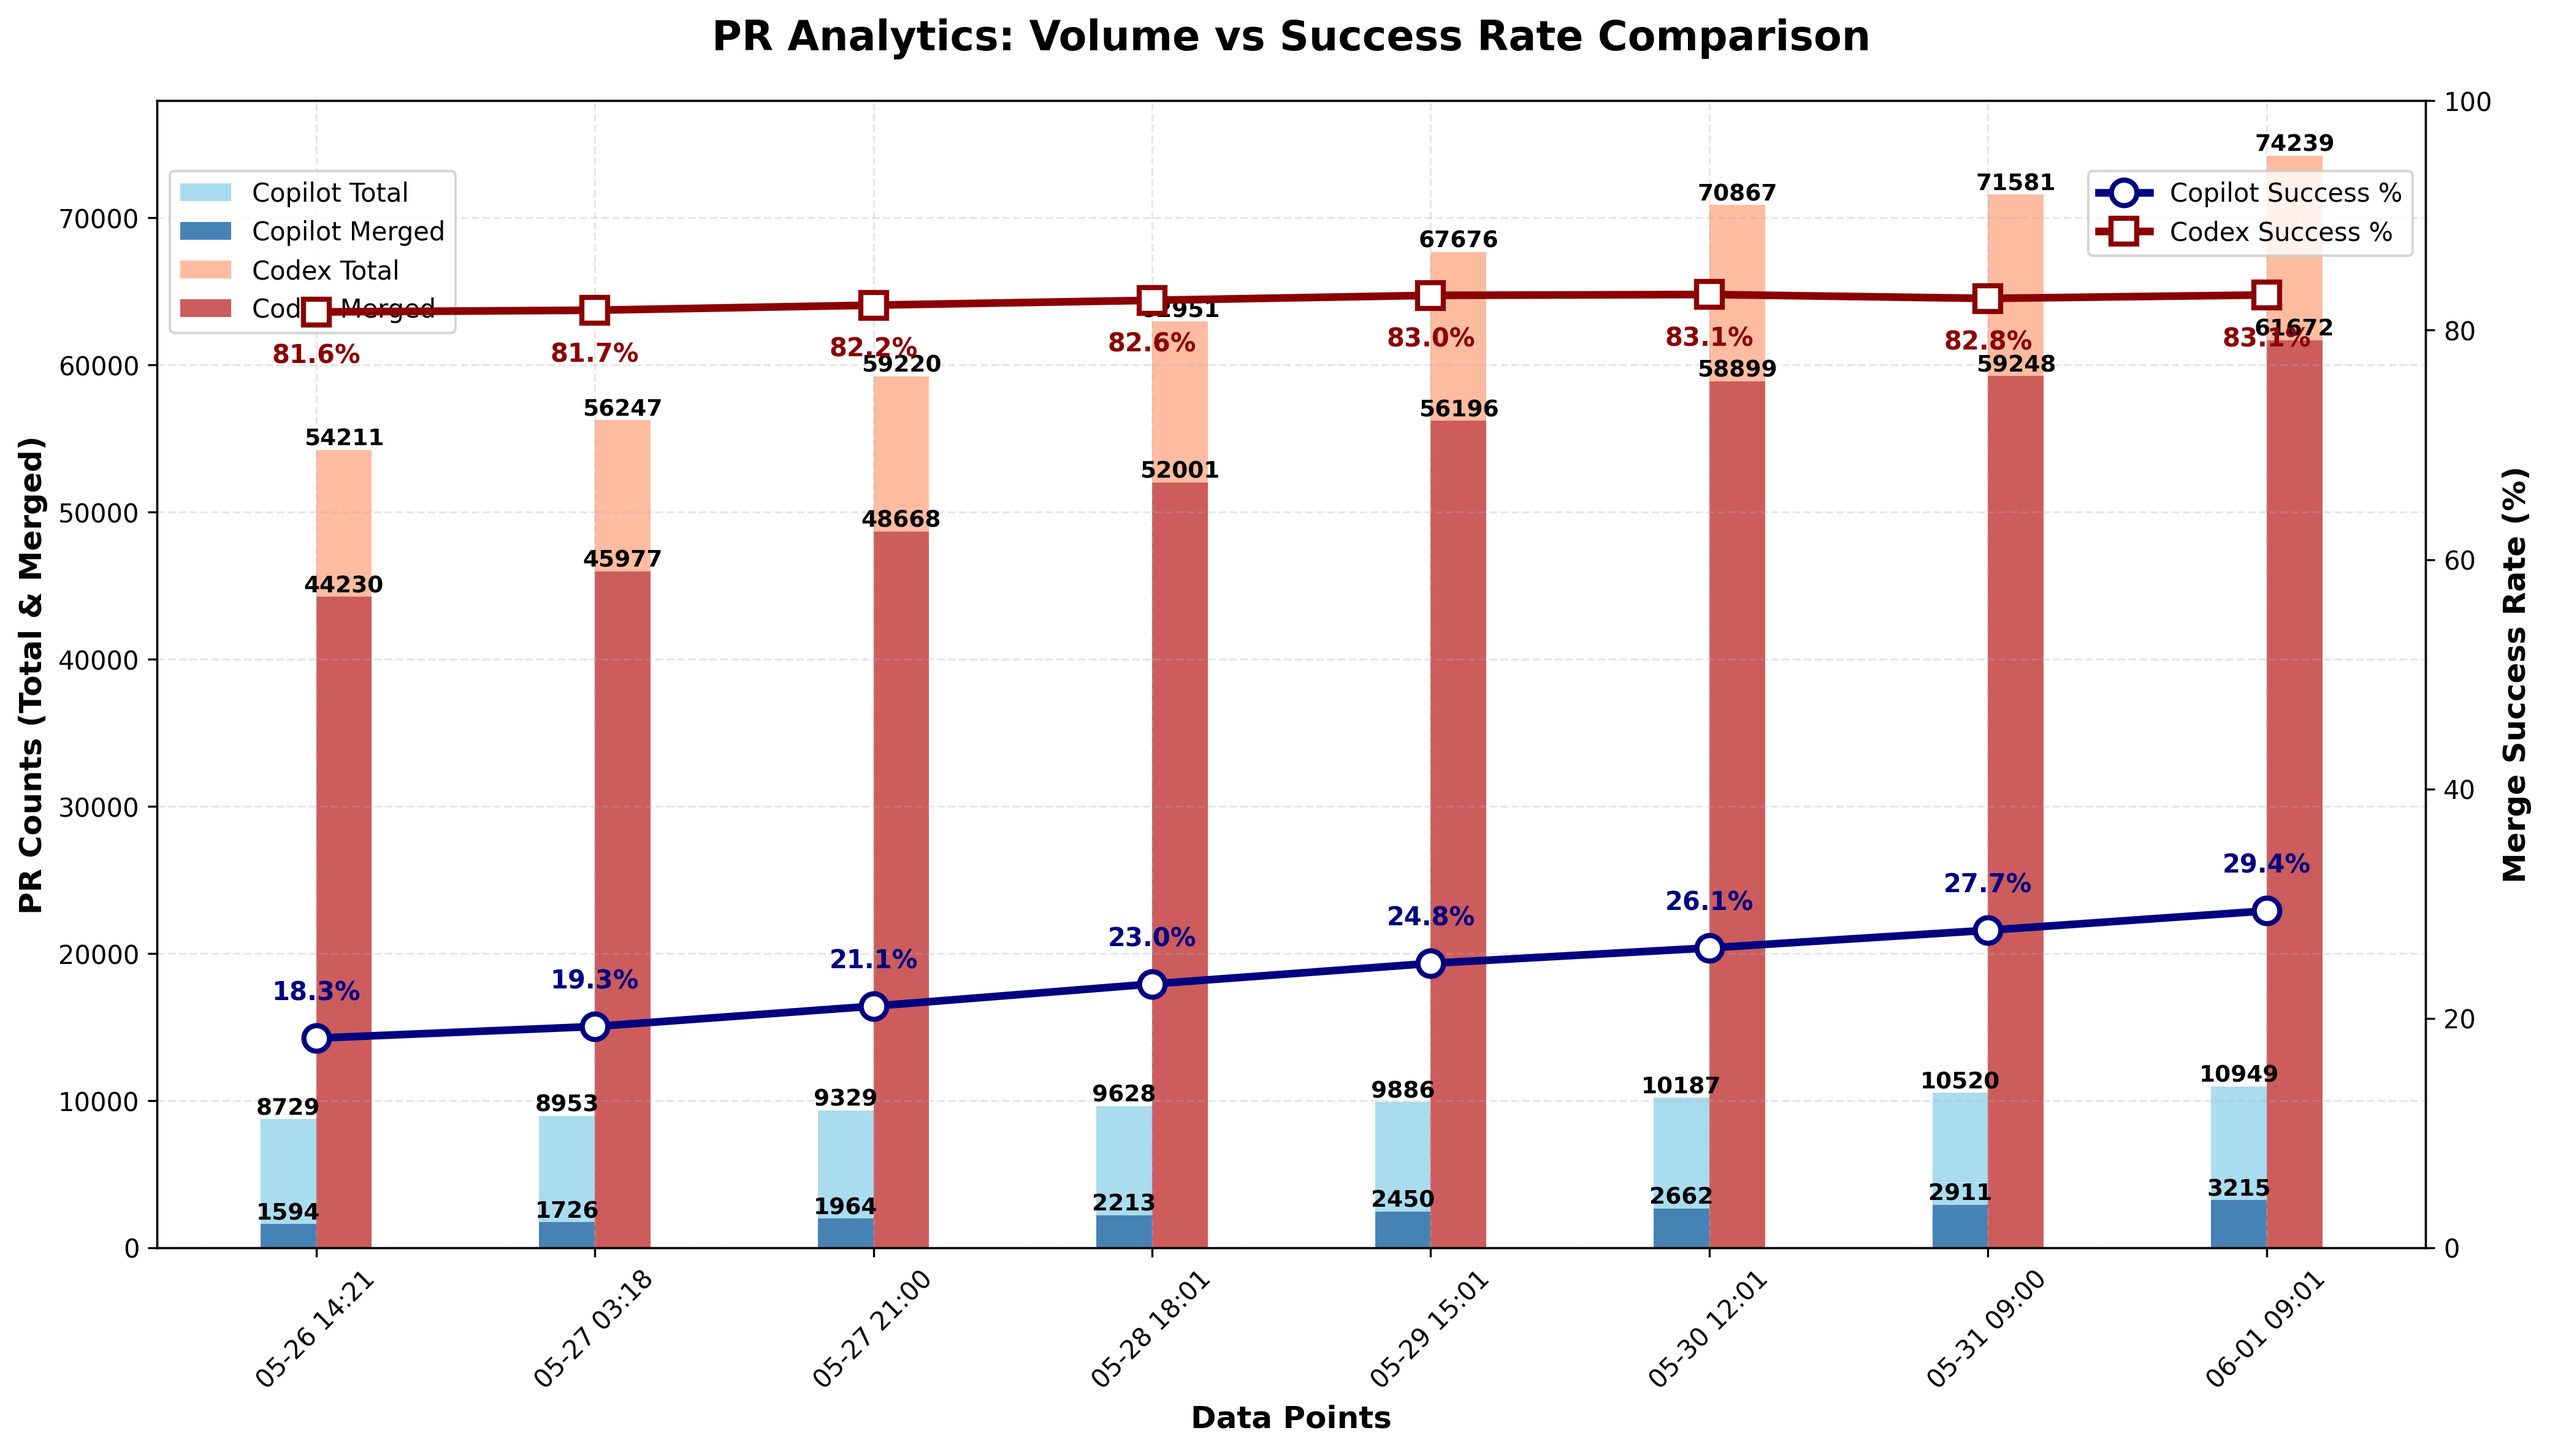
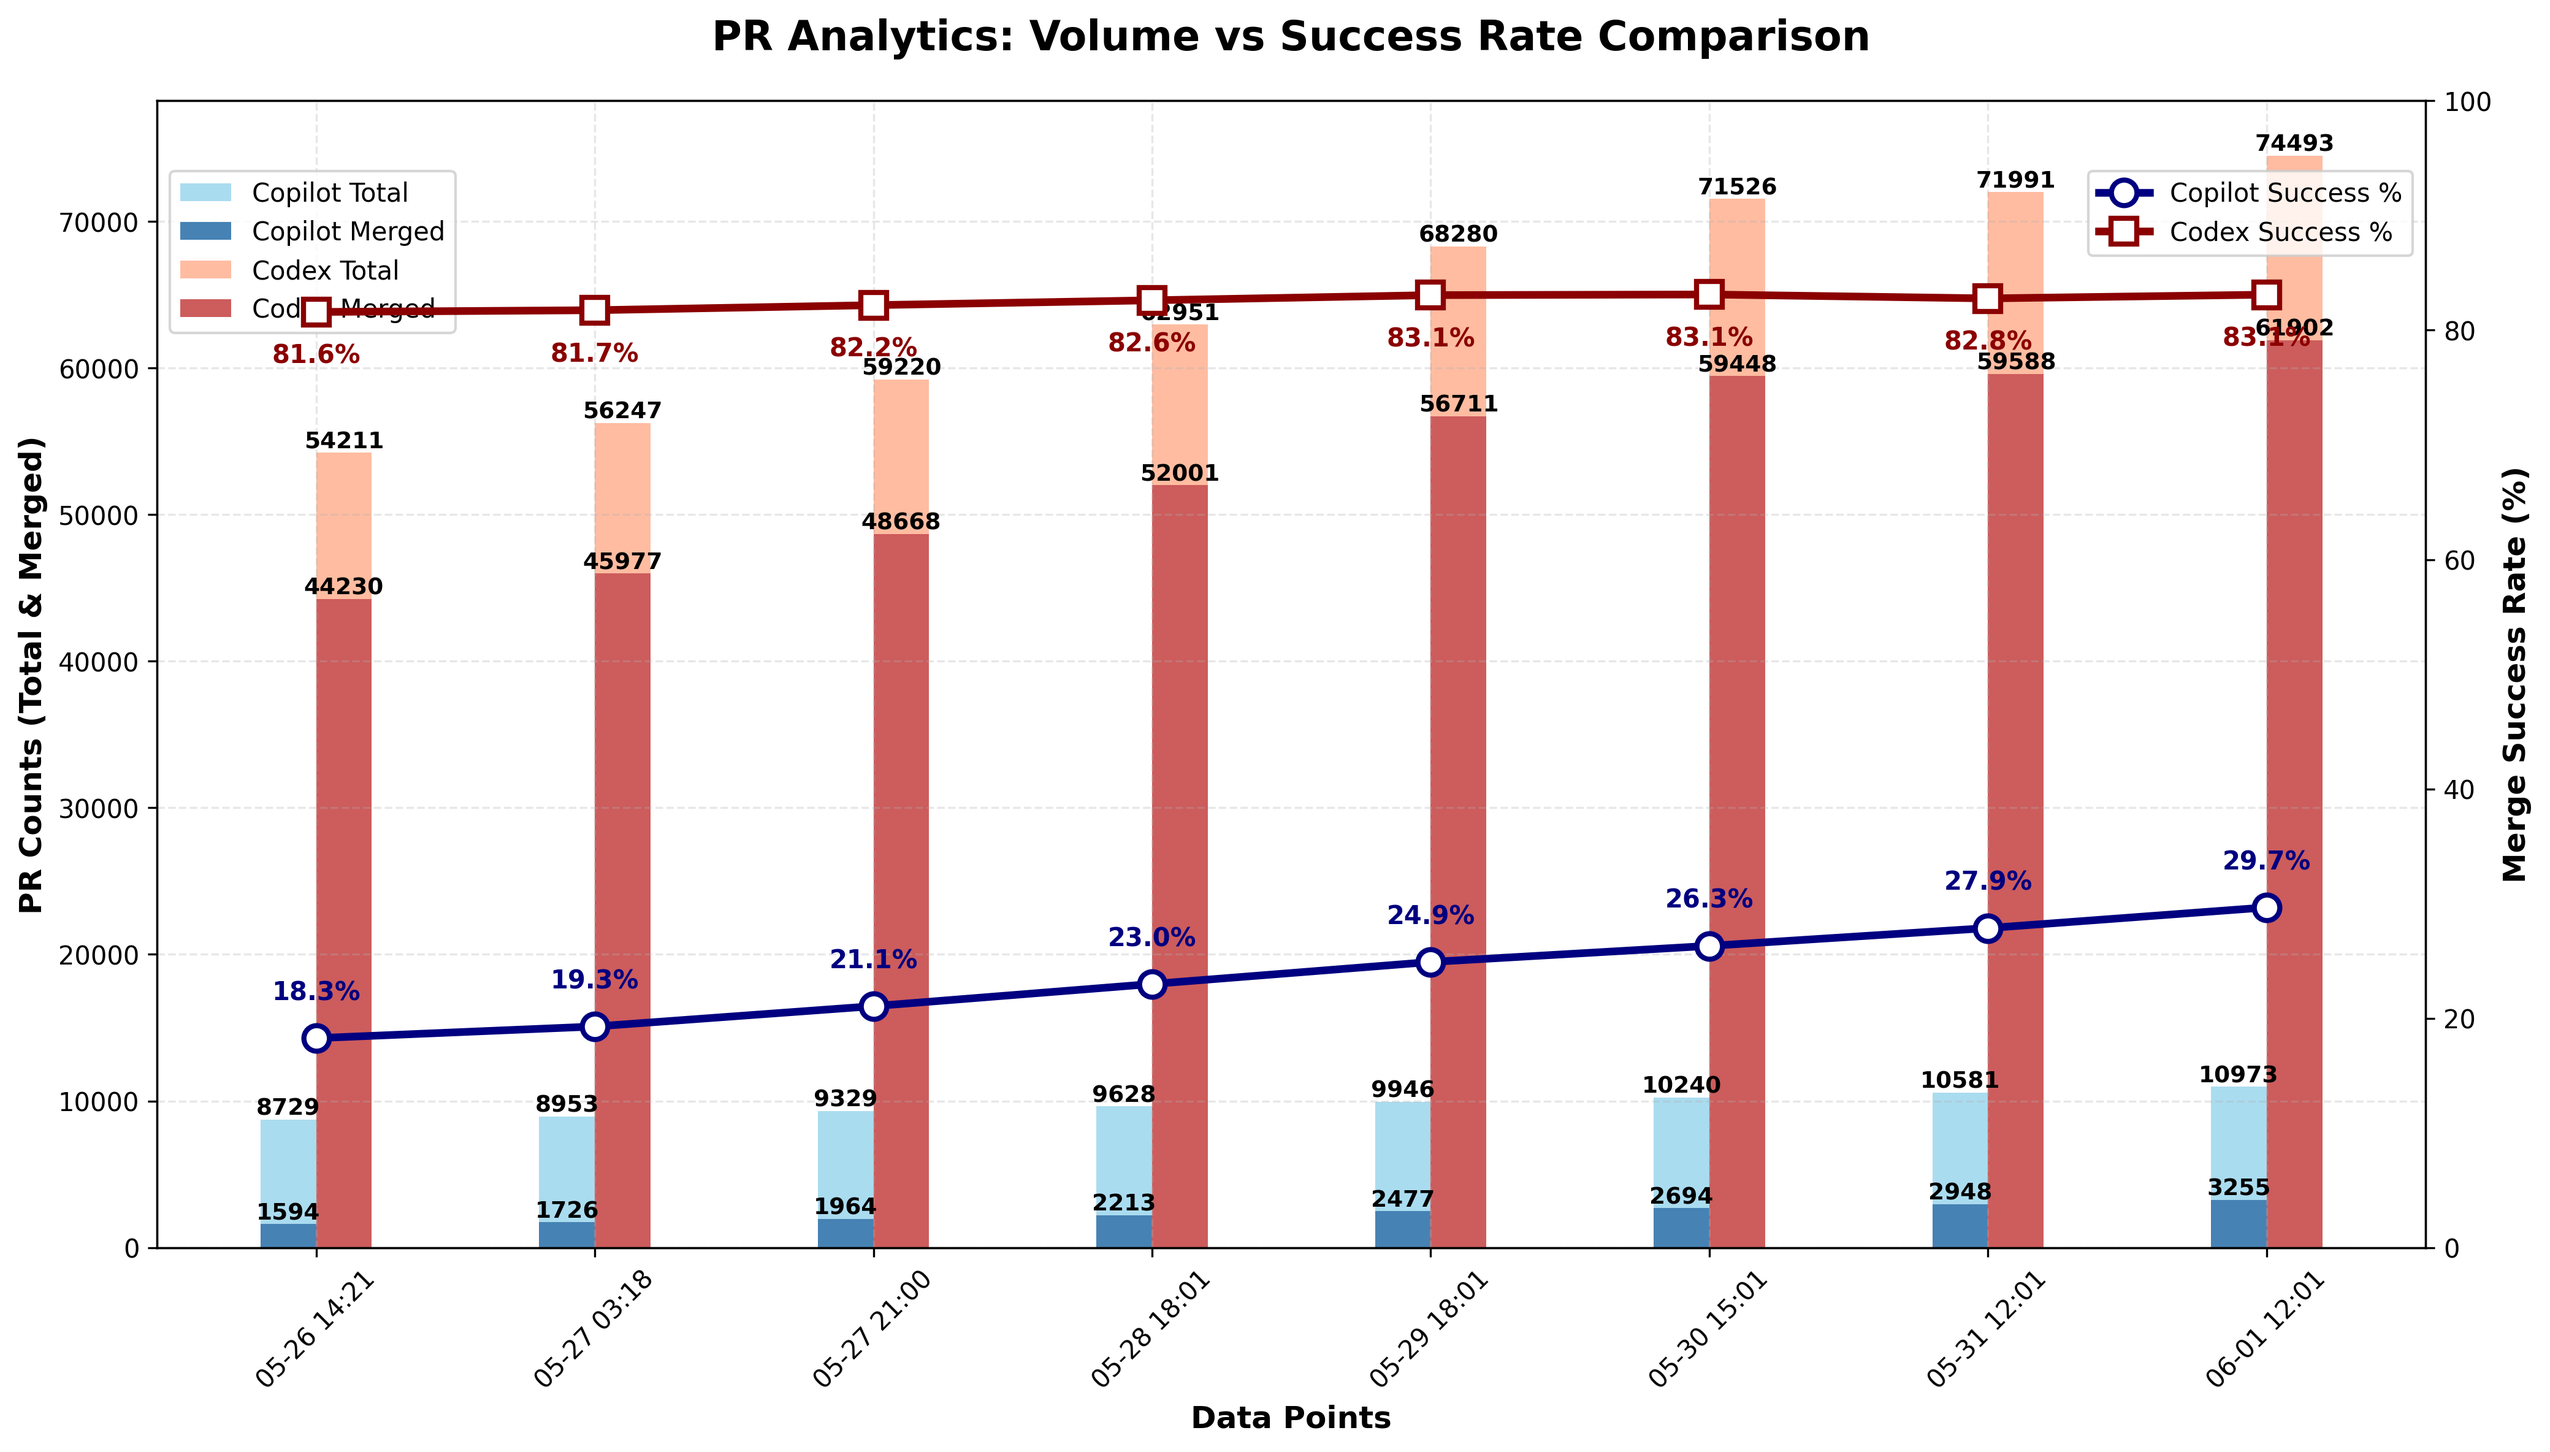
chore: update PR‑approval chart

diff --git a/docs/index.html b/docs/index.html
@@ -44,22 +44,22 @@
                 <tbody>
                     <tr>
                         <td>Copilot</td>
-                        <td>10,949</td>
-                        <td>3,215</td>
-                        <td>29.36%</td>
+                        <td>10,973</td>
+                        <td>3,255</td>
+                        <td>29.66%</td>
                     </tr>
                     <tr>
                         <td>Codex</td>
-                        <td>74,239</td>
-                        <td>61,672</td>
-                        <td>83.07%</td>
+                        <td>74,493</td>
+                        <td>61,902</td>
+                        <td>83.10%</td>
                     </tr>
                 </tbody>
             </table>
         </section>
 
         <footer>
-            <p>Last updated: <span id="last-updated">June 01, 2025 09:01 UTC</span></p>
+            <p>Last updated: <span id="last-updated">June 01, 2025 12:01 UTC</span></p>
             <p><a href="https://github.com/aavetis/ai-pr-watcher">View on GitHub</a></p>
         </footer>
     </div>

diff --git a/README.md b/README.md
@@ -19,5 +19,5 @@ Explore the GitHub search queries used:
 
 | Project | Total PRs | Merged PRs | Merge Rate |
 | ------- | --------- | ---------- | ---------- |
-| Copilot | 10,949 | 3,215 | 29.36% |
-| Codex   | 74,239 | 61,672 | 83.07% |
+| Copilot | 10,973 | 3,255 | 29.66% |
+| Codex   | 74,493 | 61,902 | 83.10% |
